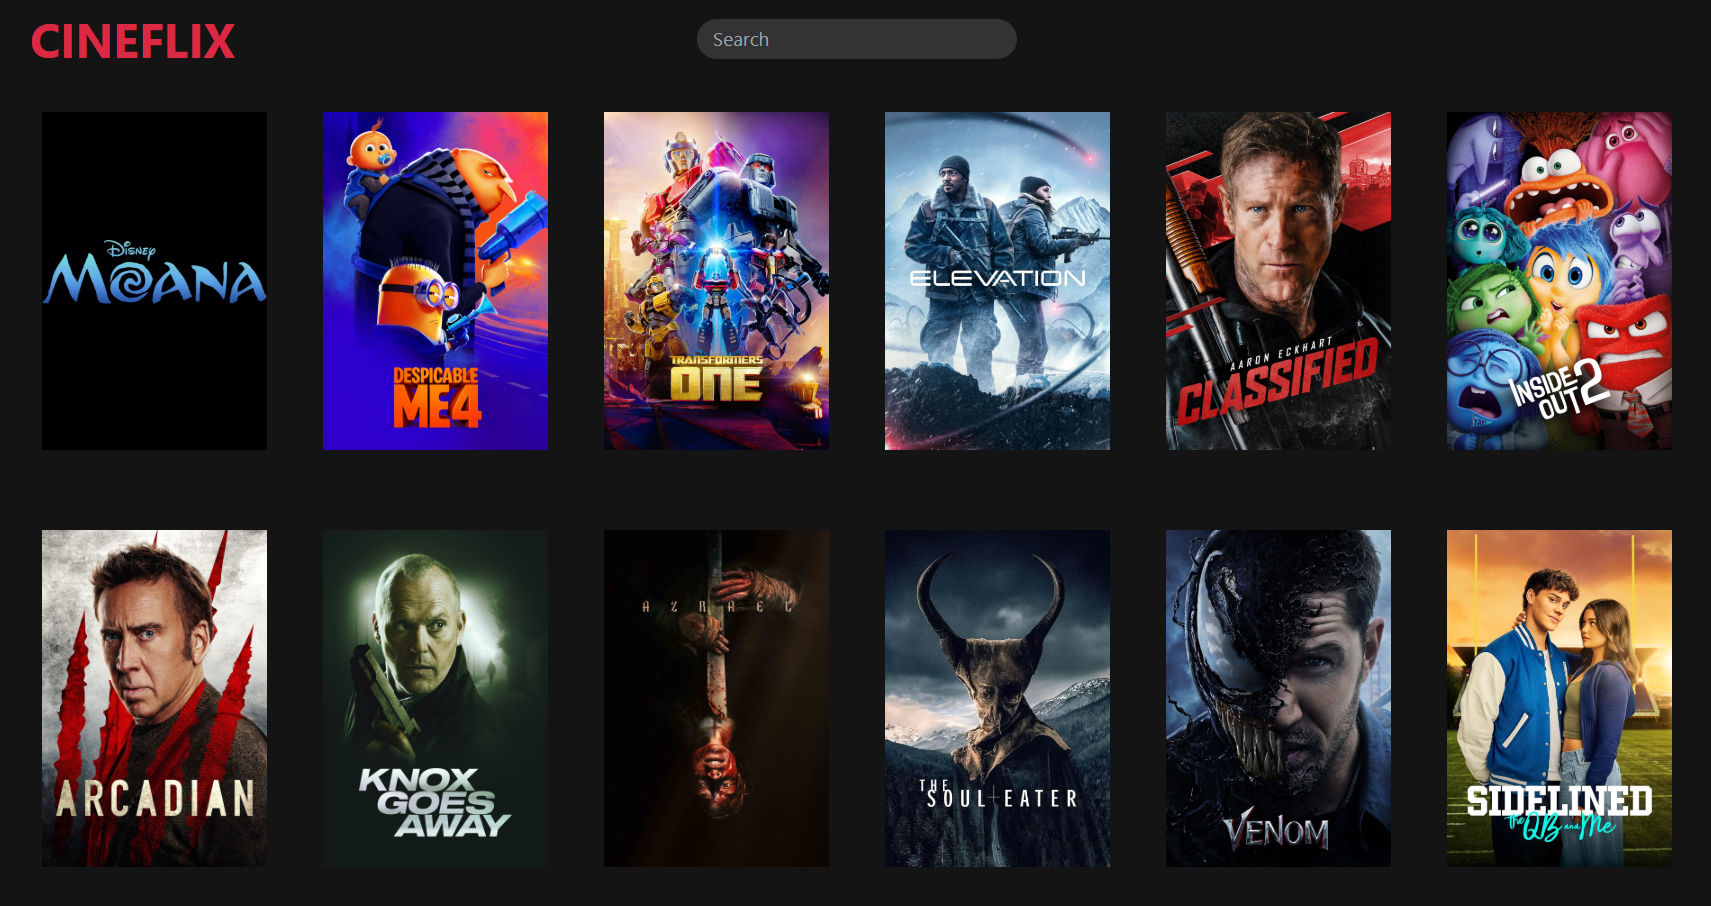
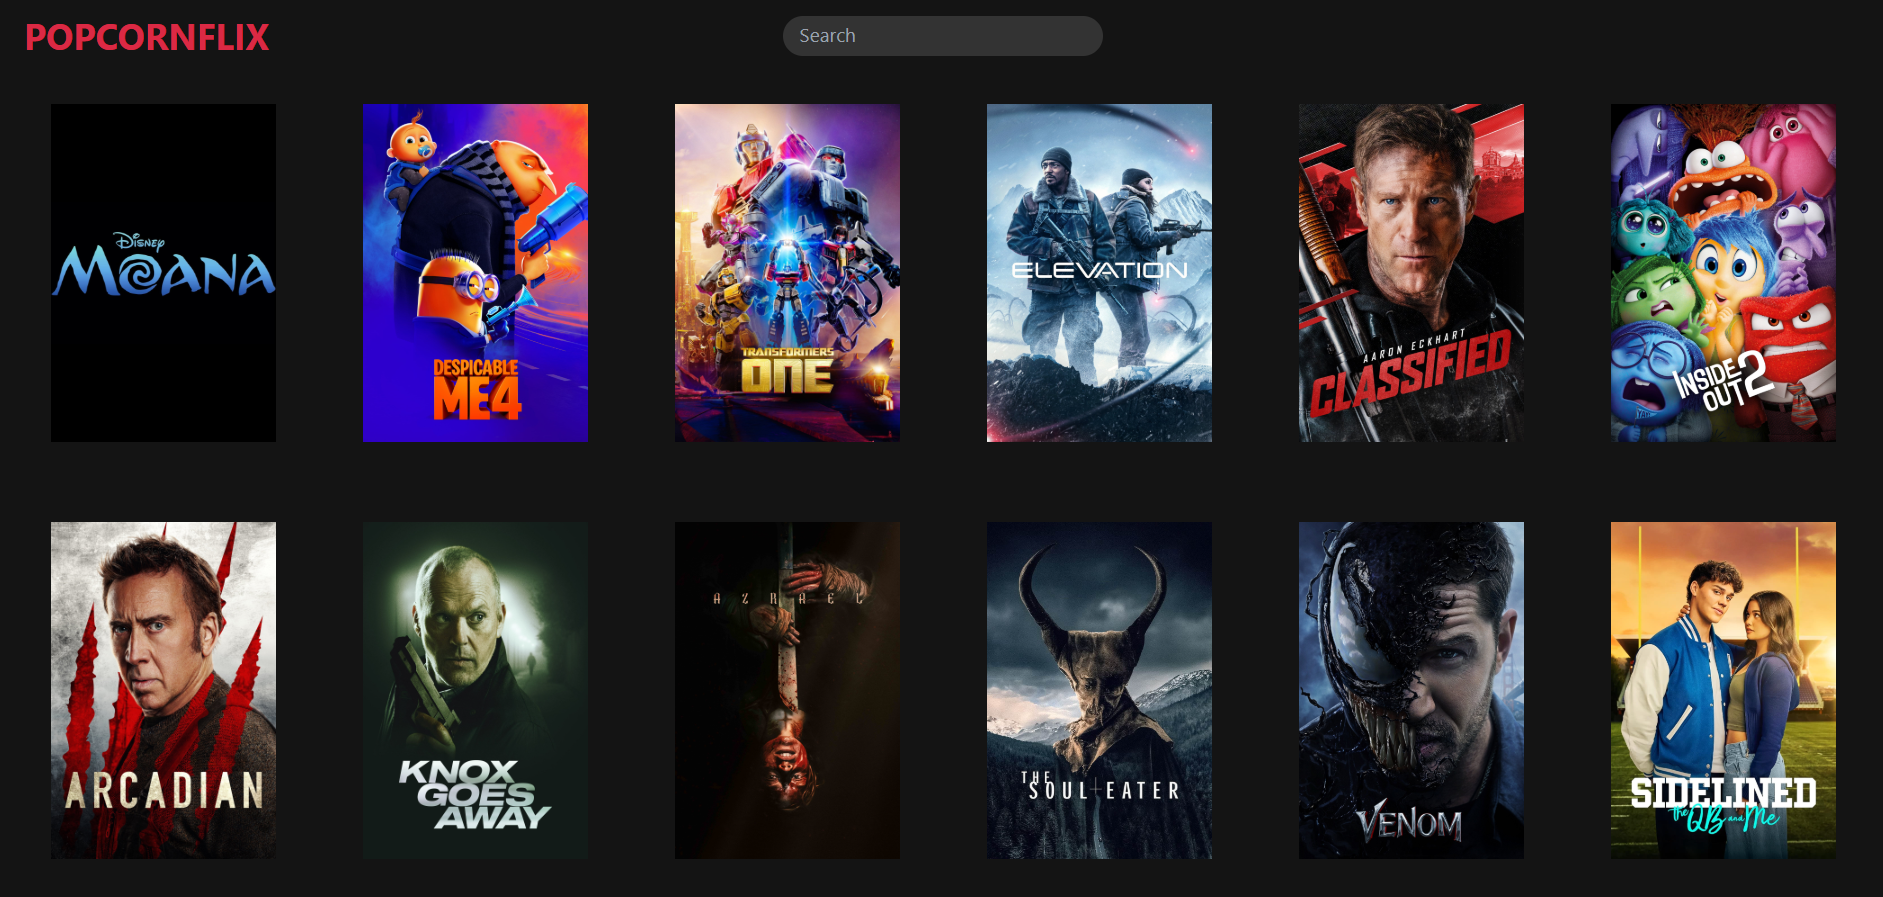
Home Button Style change

diff --git a/src/App.js b/src/App.js
@@ -80,7 +80,7 @@ function App() {
     <div className="flex flex-col gap-4">
       <header className="m-4 grid grid-cols-3">
         <button onClick={handleHomePageReset} className="place-self-start">
-          <span className="mx-4 my-8 rounded px-0 py-2 text-5xl font-bold text-[#db2944]">
+          <span className="mx-4 my-8 rounded px-0 py-2 text-4xl font-bold text-[#db2944]">
             POPCORNFLIX
           </span>
         </button>
